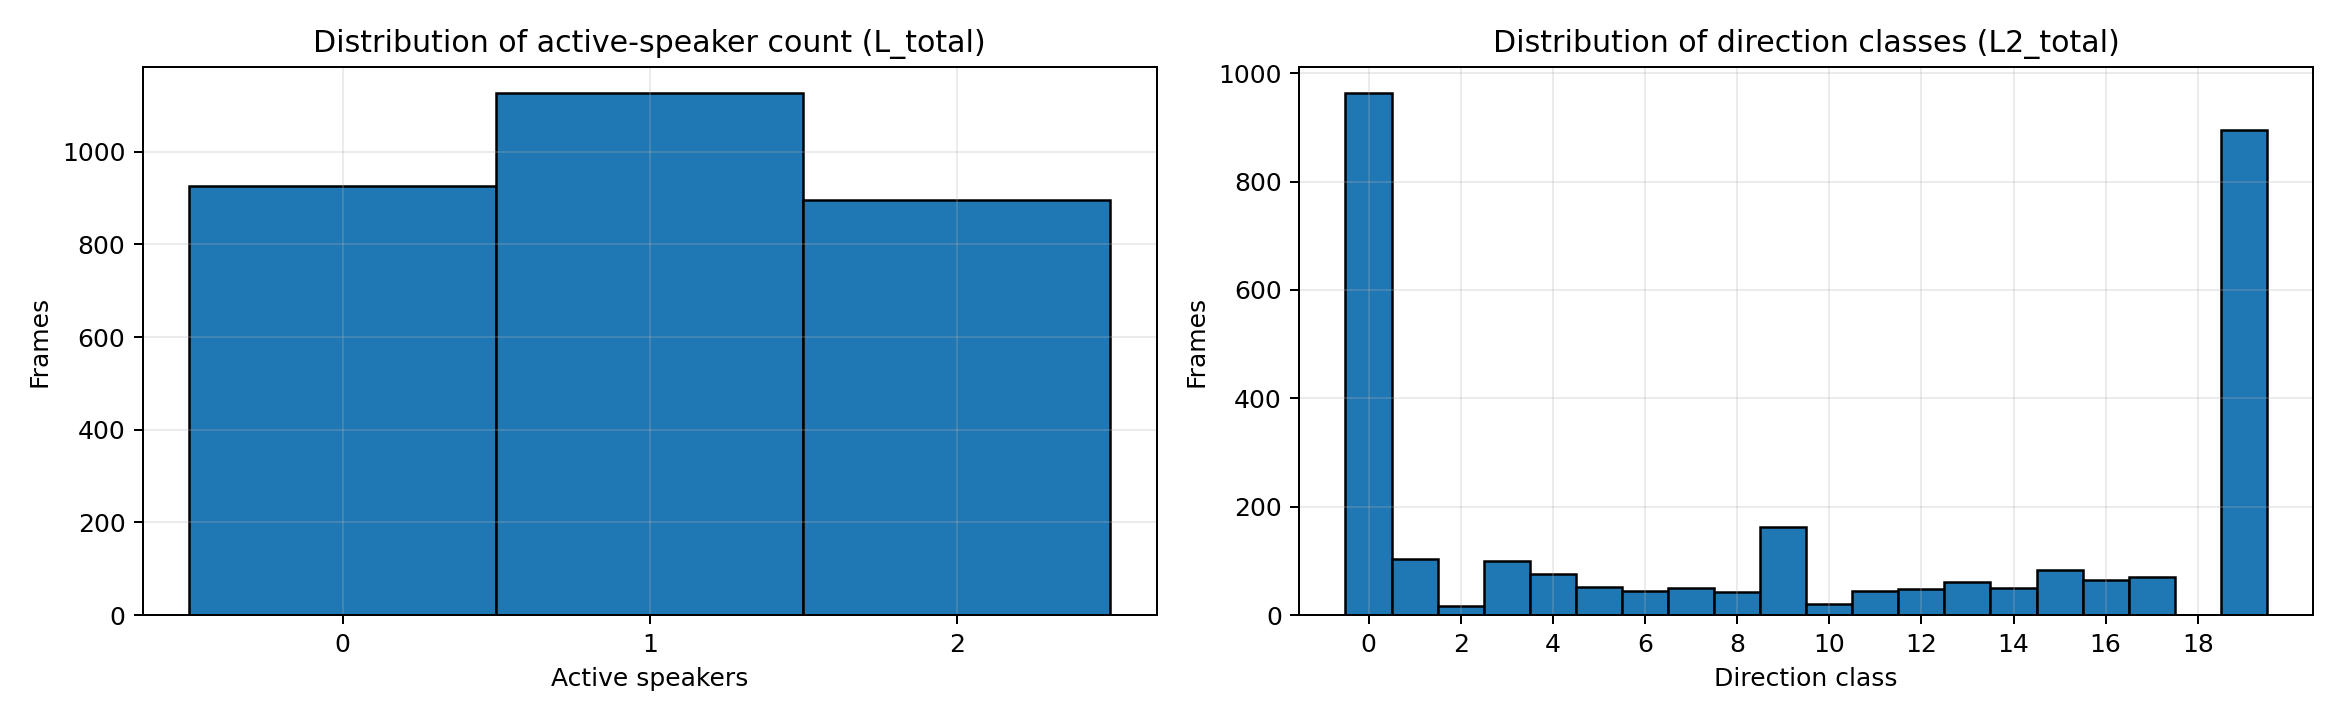
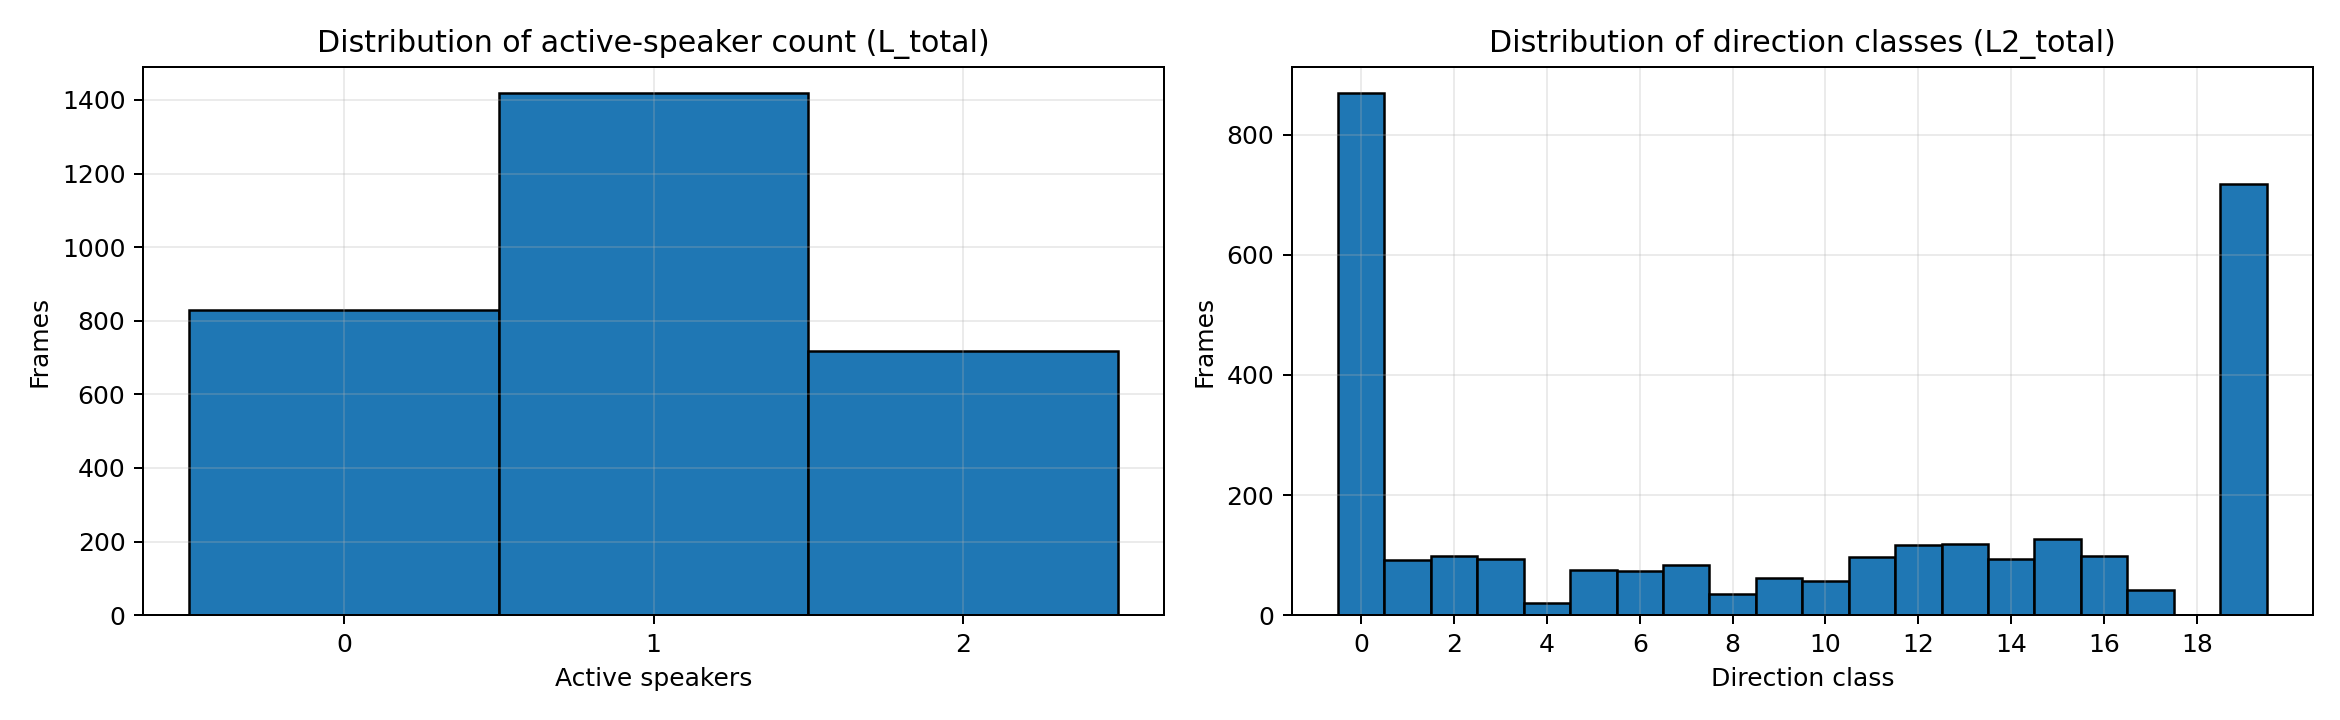
Added minor changes to dataset creating code

diff --git a/DataSamples_to_InputVectors/create_data_base.py b/DataSamples_to_InputVectors/create_data_base.py
@@ -20,16 +20,19 @@ import os
 
 #root_dir = '/home/dsi/shvarta3/data_sets/'
 #data_root_dir = '/mnt/dsi_vol1/users/ayal_shvarts/project/'
+mode='train'
+
 
 pydir = os.path.dirname(os.path.abspath(__file__))
-output_dir = pydir + '/dataset/train/'
-val_output_dir = pydir + '/dataset/val/'
+if mode == 'train':
+    output_dir = pydir + '/dataset/train/'
+elif mode == 'val':
+    output_dir = pydir + '/dataset/val/'
 plot_dir = pydir + '/plots/'
 input_data_dir = os.path.dirname(pydir) + '/createAudio/data/'
 
 # make sure dirs exist
 os.makedirs(output_dir, exist_ok=True)
-os.makedirs(val_output_dir, exist_ok=True)
 os.makedirs(plot_dir, exist_ok=True)
 
 print('Data root dir:', input_data_dir)
@@ -55,13 +58,12 @@ threshold_freq=0.3
 threshold=40
 pad=30
 num_cores = multiprocessing.cpu_count()
-mode='val'
 indices = [0,1,2,3]
 class_wieght=np.zeros(3)
 scaler = StandardScaler()
 num_diraction=18
 
-if mode =='data':
+if mode =='train':
     data_file_name=output_dir+'feature_vector_'
     label_file_name=output_dir+'label_'
     label2_file_name=output_dir+'label2_'
@@ -70,10 +72,10 @@ if mode =='data':
     lottery=3
              
 if mode =='val':
-    data_file_name=val_output_dir+'feature_vector_'
-    label_file_name=val_output_dir+'label_'
-    label2_file_name=val_output_dir+'label2_'
-    idx_file_name=val_output_dir+'idx.npy'
+    data_file_name=output_dir+'feature_vector_'
+    label_file_name=output_dir+'label_'
+    label2_file_name=output_dir+'label2_'
+    idx_file_name=output_dir+'idx.npy'
     nom_data_sets=2
     lottery=3
 
@@ -112,21 +114,14 @@ for k in range(1,nom_data_sets):
     idx_start_epoch = idx
     for i in range(start,lottery):
         index_file=i+(lottery-1)*(k-1)
-        if mode =='data':
-            print(i)
-            first_file=(input_data_dir+'/first_%d.wav'%index_file)
-            second_file=(input_data_dir+'/second_%d.wav'%index_file) 
-            together_file=(input_data_dir+'/together_%d.wav'%index_file) 
-            label_first_location_file=(input_data_dir+'/label_location_first_%d.npy'%index_file)
-            label_second_location_file=(input_data_dir+'/label_location_second_%d.npy'%index_file)
-       
-        if mode =='val':
-            print(i)
-            first_file=(input_data_dir+'val12/first_%d.wav'%index_file)
-            second_file=(input_data_dir+'val12/second_%d.wav'%index_file) 
-            together_file=(input_data_dir+'val12/together_%d.wav'%index_file) 
-            label_first_location_file=(input_data_dir+'val12/label_location_first_%d.npy'%index_file)
-            label_second_location_file=(input_data_dir+'val12/label_location_second_%d.npy'%index_file)
+        print(i)
+
+        first_file=(input_data_dir+'%s/first_%d.wav'% (mode, index_file))
+        second_file=(input_data_dir+'%s/second_%d.wav'% (mode, index_file)) 
+        together_file=(input_data_dir+'%s/together_%d.wav'% (mode, index_file)) 
+        label_first_location_file=(input_data_dir+'%s/label_location_first_%d.npy'% (mode, index_file))
+        label_second_location_file=(input_data_dir+'%s/label_location_second_%d.npy'% (mode, index_file))
+
 
 
         fs,receiver_first = wavfile.read(first_file)
@@ -233,7 +228,7 @@ for k in range(1,nom_data_sets):
         L2= L2[frame_before:index-frame_after]
         L2=np.where(L!=2, L2,19)
         
-        if (mode=='data') | (mode == 'val'):
+        if (mode=='train') | (mode == 'val'):
         
             if i==start:
                 X_total=X_T
@@ -250,7 +245,7 @@ for k in range(1,nom_data_sets):
         L2_total=L2
         
         
-    if (mode=='data') | (mode=='val'):
+    if (mode=='train') | (mode=='val'):
         
         x_0=X_total[np.where(L2_total==0)]
         x_1=X_total[np.where(L2_total==1)]
@@ -440,7 +435,7 @@ ax_lbl.grid(alpha=0.25)
 ax_lbl.legend(loc='upper right')
 
 plt.tight_layout()
-plt.savefig(output_dir + 'label_prediction.png', dpi=180)
+plt.savefig(plot_dir + 'label_prediction.png', dpi=180)
 
 # Figure 2: Label distribution summary
 fig2, axes2 = plt.subplots(1, 2, figsize=(13, 4))
@@ -460,4 +455,4 @@ axes2[1].set_xticks(np.arange(0, 20, 2))
 axes2[1].grid(alpha=0.25)
 
 plt.tight_layout()
-plt.savefig(output_dir + 'label_histograms.png', dpi=180)
+plt.savefig(plot_dir + 'label_histograms.png', dpi=180)

diff --git a/createAudio/create_data_base.py b/createAudio/create_data_base.py
@@ -38,7 +38,7 @@ from dataset_funcs import *
 class Config:
     """Configuration parameters for dataset generation."""
 
-    seed = 42
+    seed = 12
     
     # Acoustic parameters
     c = 340                     # Sound velocity (m/s)
@@ -73,8 +73,8 @@ class Config:
     start_idx = 1  # Starting index for file naming (e.g., 1 for 'first_1.wav')
 
     # File naming
-    trainORval = 'train'  # 'train' or 'val'
-    dataset_title = trainORval + str(seed)
+    trainORval = 'val'  # 'train' or 'val'
+    dataset_title = trainORval
 
 
 def get_timit_speakers(timit_path: str) -> Tuple[List[str], List[str]]:

diff --git a/createAudio/dataset_funcs.py b/createAudio/dataset_funcs.py
@@ -503,6 +503,8 @@ def fun_create_diffuse_noise(
     
     # Pick a random noise file
     noise_file = wav_files[np.random.randint(len(wav_files))]
+    # Print the chosen file for debugging
+    print(f"Selected noise file: {noise_file}")
     
     # Read audio file
     data, fs_data = sf.read(noise_file)
